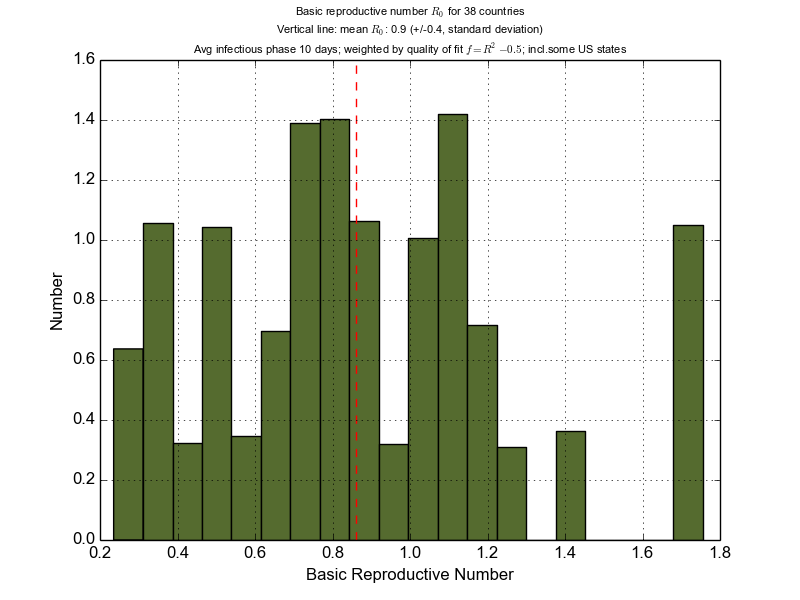
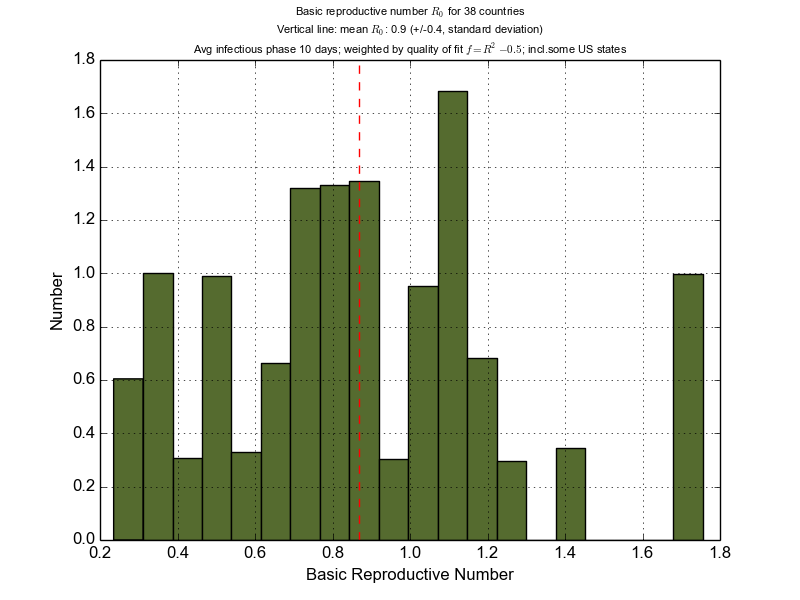
fixed bug for US states

diff --git a/cov_model/datafinder/data_finder.py b/cov_model/datafinder/data_finder.py
@@ -20,7 +20,7 @@ JOHN_HOPKINS = "https://raw.githubusercontent.com/CSSEGISandData/COVID-19/master
 # countries that need their data to be summed;
 # same for US states
 COUNTRIES_TO_SUM = ["US", "France", "Denmark",
-                    "Netherlands"]
+                    "Netherlands", "California", "New York"]
 
 def _sum_up(param, country):
     """Get special csv param for US - summing is needed."""
@@ -149,8 +149,12 @@ def _reformat_date(exp_dates):
         try:
             datetime.strptime(exp_dates, time_fmt)
         except ValueError:
-            exp_dates = datetime.strptime(exp_dates,
-                                          wrong_time_fmt).strftime(time_fmt)
+            try:
+                exp_dates = datetime.strptime(exp_dates,
+                                              wrong_time_fmt).strftime(time_fmt)
+            except ValueError:
+                exp_dates = datetime.strptime(exp_dates,
+                                              "%m/%d/20 %H:%M").strftime(time_fmt)
 
     if exp_dates != 'NN' and isinstance(exp_dates, list):
         try:

diff --git a/cov_model/cov_lin_wrapper.py b/cov_model/cov_lin_wrapper.py
@@ -29,10 +29,6 @@ from statsanalysis import (linear, ks, country_parameters)
 from projections import uk
 
 
-# countries that need their data to be summed;
-# same for US states
-COUNTRIES_TO_SUM = ["US", "France", "Denmark",
-                    "Netherlands"]
 COUNTRY_PARAMS = country_parameters.COUNTRY_PARAMS
 
 def make_evolution_plot(variable_pack, country,
@@ -735,7 +731,6 @@ def main():
                 
     if regions:
         for region in regions:
-            COUNTRIES_TO_SUM.append(region)
             monthly_numbers = get_monthly_countries_data(region,
                                                          args.month,
                                                          region=True)
